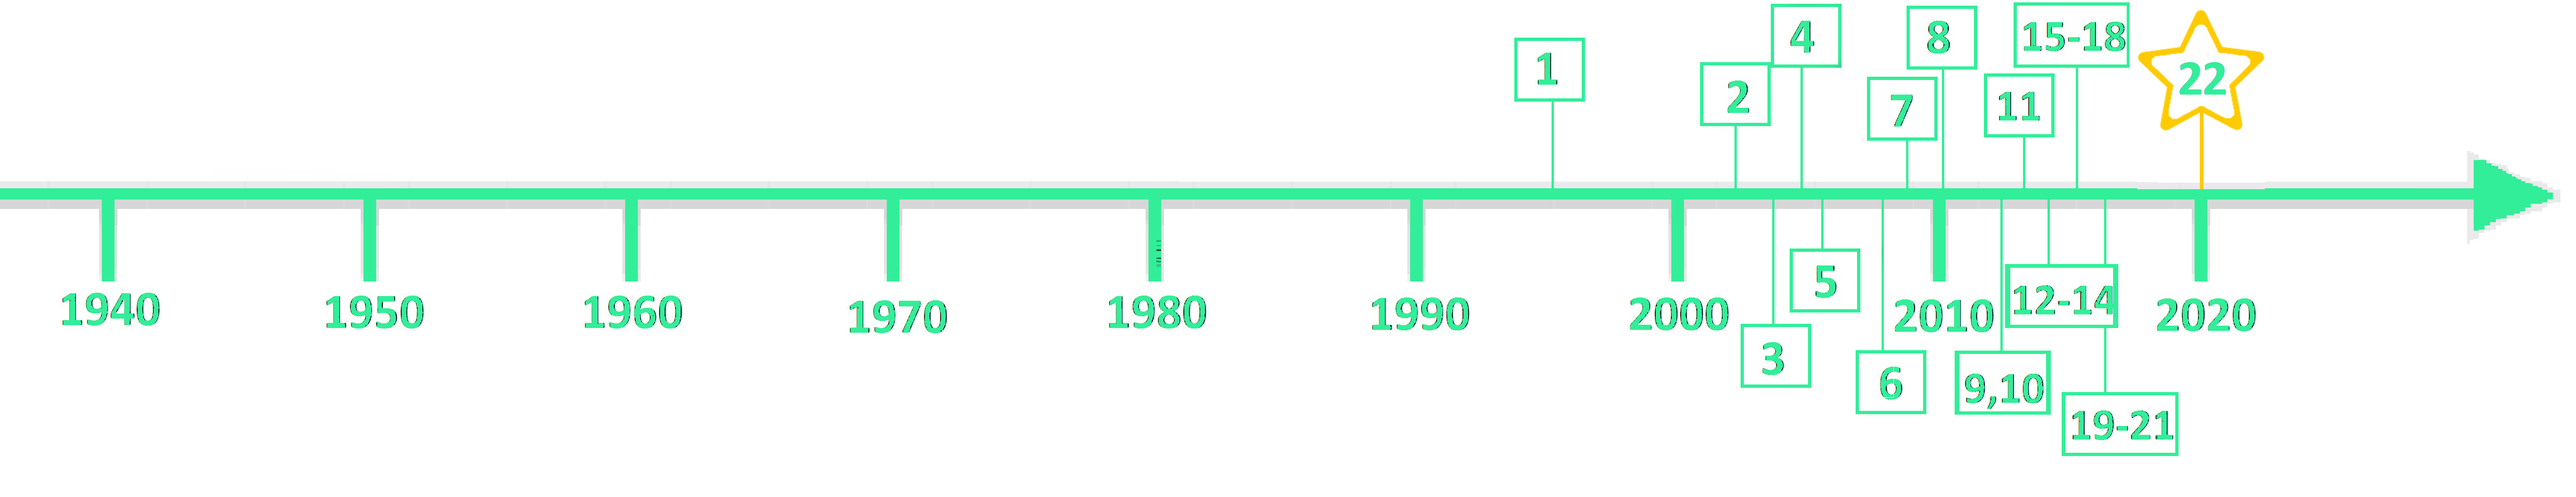
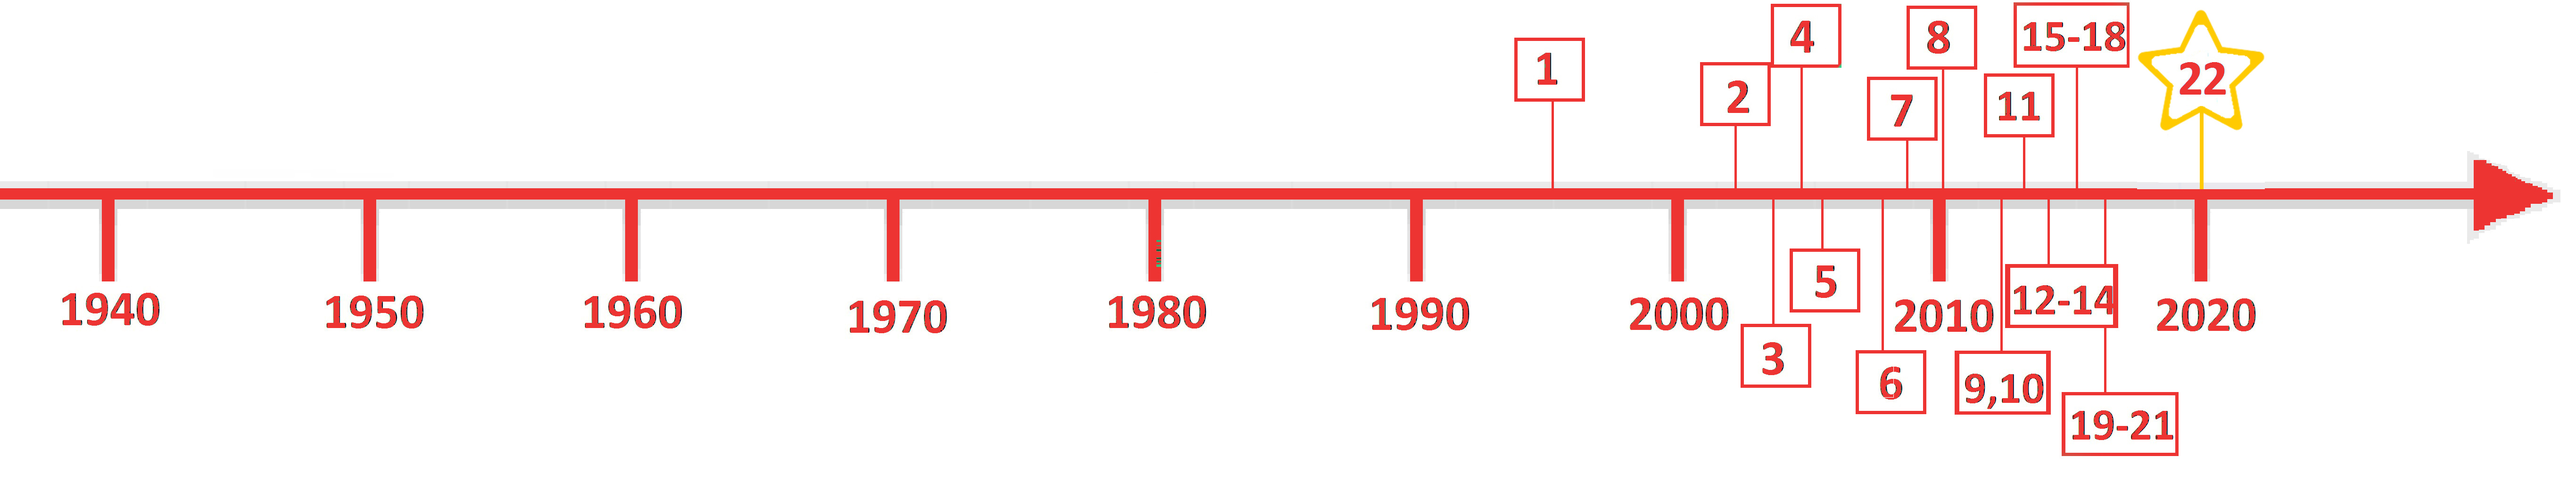
Fix for Selig

diff --git a/Kapitel/5G/5G.tex b/Kapitel/5G/5G.tex
@@ -8,18 +8,13 @@
 \begin{tabular}{p{2,1 cm}p{2.7 cm}}
 \textbf{Steckbrief}& \\
 \end{tabular}
-\rowcolors{1}{mobile}{}
-\begin{tabular}{p{2,1 cm}|p{2.7 cm}}
+\begin{tabular}{p{2,1 cm}p{2.7 cm}}
+\rowcolors{1}{\topicolor!20}{}
       Einsatz ab & voraussichtlich 2020\\
-      \hline
       Frequenz"-bereich  & mm-Band (\SI{24.25}{\giga\hertz}-\SI{86}{\giga\hertz}) 		  oder  C-Band (\SI{3.4}{\giga\hertz}-\SI{3.8}{\giga\hertz}) \cite{5g.8}\\
-      \hline
       Datenrate & \SI{10}{\giga bit/\second}\\
-       \hline
       Technologien & IBFD, SIC\\
-      \hline
       Verbreitung & In Entwicklung\\
-      \hline
       Reichweite & etwa \SI{100}{\metre} bis \SI{2}{\kilo\metre} \\
 \end{tabular}
 \par
@@ -99,55 +94,31 @@ Außerdem könnten die einzelnen Fahrzeuge direkt miteinander in Kommunikation s
 \includegraphics[width=\textwidth]{Kapitel/5G/Grafiken/Zeitstrahl2}
 \par
 \noindent
-\rowcolors{2}{}{mobile}
-\begin{tabular}{|p{1 cm}|p{3 cm}|p{13.55 cm}|}
-	\hline
+\begin{tabular}{p{1 cm}p{3 cm}p{13.55 cm}}
+\rowcolors{2}{}{\topicolor!20}
 	Nr. & Datum & Entwicklungsschritte~\cite{5g.1}\\
-	\hline
 	1 & 1996 & 2G GSM \\
-	\hline
 	2 & 2002 & Bekanntgabe der strategischen Vision für 4G\cite{5g.5} \\
-	\hline
 	3 & 2004 & 3G UMTS\\
-	\hline 
 	4 & Anfang 2005 & Beginn der Standardisierung von 4G\cite{5g.5} \\
-	\hline
 	5 & 2006 & 3G HSPA\\
-	\hline
 	6 & 2008 & Die ersten Entwicklungsgruppen für 5G Mobilkommunikationssysteme werden gebildet.\\
-	\hline
 	7 & 2009 & Das erste kommerzielle 4G-Netz wird von Ericsson und TeliaSonera in Betrieb genommen. \\
-	\hline
 	8 & 2010 & 4G LTE großflächig verbreitet \\
-	\hline
 	9 & 8. Oktober 2012 & Es erfolgt die Gründung eines 5G Forschungszentrums an der Universität in Surrey, Großbritannien. \\
-	\hline
 	10 & November 2012 & Das \textit{iJOIN}-EU-Projekt zur Erforschung der besseren Ausnutzung des Spektrums wird gestartet. \\
-	\hline
 	11 & 12. Mai 2013 & Samsung verkündet, das erste 5G-System entwickelt zu haben, welches Geschwindigkeiten bis zu 10Gbit/s erreichen können soll. Im Test wurde bei einer Reichweite von 2km eine Geschwindigkeit von 1.056Gbit/s erreicht. \\
-	\hline
 	12 & 8. Mai 2014 & NTT DoCoMo beginnt 5G-Tests in Kooperation mit Alcatel, Ericsson, Fujistu, NEC, Nokia und Samsung. \\
-	\hline
 	13 & Oktober 2014 & Das Projekt TIGRE5-CM wird gestartet, um die Architektur von künftigen Mobilfunknetzen auf Basis von SDN-Paradigmen (Software-defining networking) zu entwerfen. \\
-	\hline
 	14 & November 2014 & Huawei und Megafon beginnen in Russland mit der Entwicklung eines 5G-Netzwerkes. Ein Testnetz soll bis Ende 2017 entstehen. \\
-	\hline
 	15 & März 2015 & Vorstellung erster Ergebnisse des iJOIN-Projektes auf dem Mobile World Congress 2015 \\
-	\hline
 	16 & September 2015 & Das 3rd Generation Partnership Project, kurz 3GPP, hält eine Konferenz zur Diskussion über die Entwicklung eines 5G-Standards ab. \\
-	\hline
 	17 & 8. September 2015 & Verizon gibt bekannt, dass 2016 erste Tests von 5G in den USA beginnen sollen. \\
-	\hline
 	18 & 28. September 2015 & Telekom gibt bekannt, dass ein erster Test mit SIC erfolgreich war, sodass zum ersten Mal IBFD erreicht wurde. \cite{5g.2} \\
-	\hline
 	19 & 22. Januar 2016 & Ericsson und TeliaSonera geben erneut eine Zusammenarbeit bekannt. Sie wollen 2018 in Stockholm, Schweden und in Tallinn, Estland, die ersten 5G-Services anbieten. \\
-	\hline
 	20 & 22. Februar 2016 & Samsung und Verizon geben ihre Zusammenarbeit bei 5G-Tests bekannt. \\
-	\hline
 	21 & 23. Februar 2016 & Telekom führt auf dem Mobile World Congress 2016 einen 5G-Prototypen mit einer Geschwindigkeit von 1,5Gbit/s und weniger als 1ms Latenzzeit vor. \cite{5g.4}\\
-	\hline
 	22 & 2020 & geplantes großflächiges Einführungsjahr dieser Technik \\
-	\hline
 \end{tabular}
 \par
 \begin{multicols}{3}

diff --git a/Kapitel/NFC/NFC.tex b/Kapitel/NFC/NFC.tex
@@ -8,26 +8,17 @@
 \begin{tabular}{p{2,1 cm}p{2.7 cm}}
 \textbf{Steckbrief}& \\
 \end{tabular}
-\rowcolors{1}{mobile}{}
 \begin{tabular}{p{2,1 cm}p{2.7 cm}}
+\rowcolors{1}{\topicolor!20}{}
       Einsatz seit & 2002\\
-      \hline
       Frequenz"-bereich  & \SI{13.56}{\mega\hertz}\\
-      \hline
       Datenrate & \SI{424}{kBit/s}\\
-      \hline
       Verbreitung & gering\\
-      \hline
       Reichweite & \SI{4}{cm}\\
-      \hline
       Entwickelt von & Sony und Philips \\
-      \hline
       Spezifiziert durch & NFC Forum \\
-      \hline
       Technologie & RFID \\
-      \hline
       Standardisierung & ISO/IEC 18000-3 \\
-     \hline
       Modulation & Phasen Jitter Modulation \\
 \end{tabular}
 \par
@@ -98,25 +89,16 @@ Bei der Datenübertragung vom Empfänger zurück zum anfragenden Gerät bedient 
 \includegraphics[width=\textwidth]{Kapitel/NFC/Grafiken/Zeitstrahl2}
 \par
 \noindent
-\rowcolors{2}{}{mobile}
 \begin{tabular}{p{0.5 cm}p{1.5 cm}p{15.55 cm}}
-	\hline
+\rowcolors{2}{}{\topicolor!20}
 	Nr. & Datum & Entwicklungsschritte~\cite{nfc.1}\\
-	\hline
 	1 & 1983 & Das erste Patent mit der Abkürzung „RFID“ wird auf Charles Walton ausgestellt.\\
-	\hline
 	2 & 2002 & Sony und Philips einigen sich auf eine technische Spezifikation.\\
-	\hline
 	3 & 2004 & Nokia, Philips und Sony etablieren das Near Field Communication (NFC) Forum.\\
-	\hline
 	4 & 2006 & Erste Spezifikation für NFC-Tags wird veröffentlicht.\\
-	\hline
 	5 & 2006 & Nokia präsentiert das erste NFC-fähige Mobiltelefon.\\
-	\hline
 	6 & 2009 & Das NFC-Forum veröffentlicht Peer-to-Peer-Standards.\\
-	\hline
 	7 & 2012 & Einführung von girogo.\\
-	\hline
 \end{tabular}
 \par
 \begin{multicols}{3}
